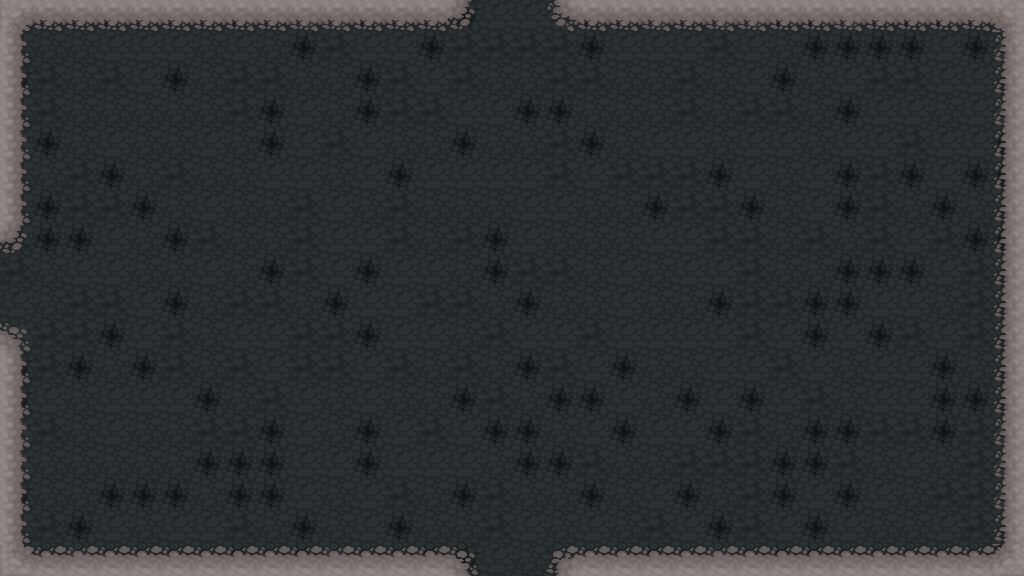
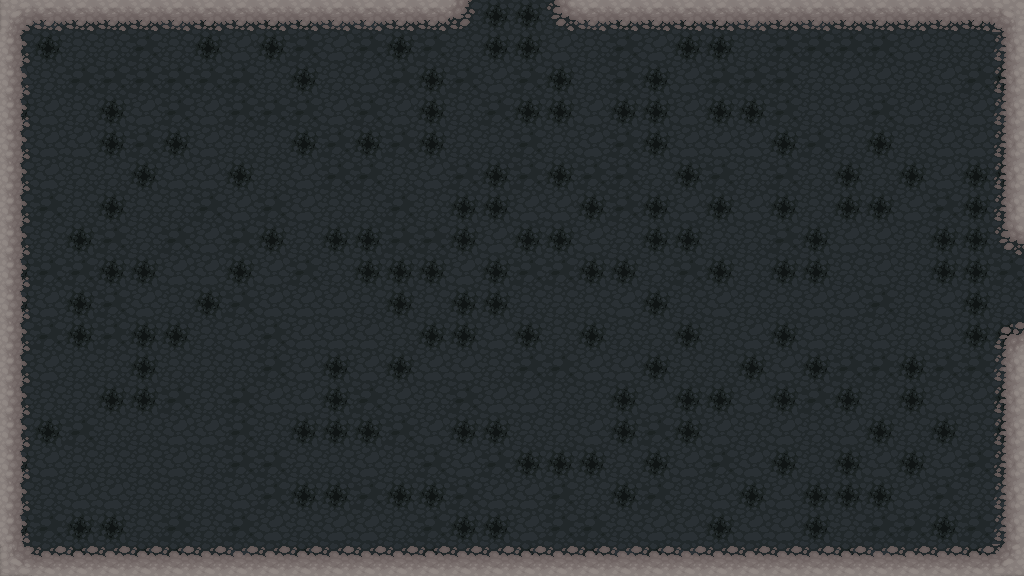
Dungeon map base Done

diff --git a/mapGen.py b/mapGen.py
@@ -188,6 +188,13 @@ class Map():
                         setColor(getPixel(self.map, startx + x + structx * bits, starty + y + structy * bits), getColor(getPixel(struct, x + structx * bits, y + structy * bits)))
 
     def updateBackground(self, tiles, back):
+        tempPaths = paths
+        printNow(self.baseTile.desc)
+        if self.baseTile.desc == "lava":
+            printNow("Lava Detected")
+            tempPaths.append("S")
+            tempPaths.append("l")
+        printNow(tempPaths)
         for spot in range(0, len(tiles)):
             around = 0
             #dirs = [[1,0,right],[-1,0,left],[0,-1,up],[0,1,down]]
@@ -204,7 +211,7 @@ class Map():
                 #if tileCoordToSpot(new) >= len(tiles): continue
                 if tiles[tileCoordToSpot(new)] == tiles[spot]:
                     around = around | d[2] #bitwise or direction with around
-                elif tiles[spot] in paths and tiles[tileCoordToSpot(new)] in paths:
+                elif tiles[spot] in tempPaths and tiles[tileCoordToSpot(new)] in tempPaths:
                     around = around | d[2] #bitwise or direction with around
             if   tiles[spot] == self.baseTile.char: continue
             elif tiles[spot] == "g": self.placeTex(grass, spot, around)
@@ -218,6 +225,7 @@ class Map():
             elif tiles[spot] == "L": self.placeTex(lava, spot, around)
             elif tiles[spot] == "H": self.placeTex(hole, spot, around)
             elif tiles[spot] == "h": self.placeStruct(house, spot)
+            elif tiles[spot] == "c": self.placeStruct(chest, spot)
             elif tiles[spot] == "t": self.placeStruct(tree1, spot)
             repaint(self.map)
             #not in files yet
@@ -297,6 +305,7 @@ fence = Tile(fenceArr, false, true, false, "fence", "f")
 #structures
 structPath = path + "Tiles/LPC/structures/"
 house = makePicture(structPath + "house.png")
+chest = makePicture(structPath + "chest.png")
 tree1 = makePicture(structPath + "tree1.png")
 
 #initailize background image
@@ -309,7 +318,7 @@ texHeight = getHeight(textureMap)
 #initailize textures
 #  Tile(imgArr, isTraversable, isPassable, isTough, desc)
 
-paths = ["d", "s", "h", ".", "o"]
+paths = ["d", "s", "h", ".", "o", "c"]
 #create emply grass field will clean up later
 town  = "fffffffffffffddddfffffffffffffff"
 town += "fh......ggt,,ddddgh......ggggggf"
@@ -394,10 +403,10 @@ nefield += "fffffffffffffddddfffffffffffffff"
 entrance  = "SSSSSSSSSSSSSSSllSSSSSSSSSSSSSSS"
 entrance += "SllllllllllllllllllllllllllllllS"
 entrance += "SllllllllllllllllllllllllllllllS"
-entrance += "SllllllllllllllllllllllllllllllS"
-entrance += "SllllllllLLLLllllllllllllllllllS"
-entrance += "SllllllllLLLLLLLLllllllllllllllS"
-entrance += "SllllllllLLLLLLLLLLLlllllllllllS"
+entrance += "SlllllllllllllLLLllllllllllllllS"
+entrance += "SllllllllLLLLlLLLllllLLLlllllllS"
+entrance += "SllllllllLLLLLLLLLllLLLLlllllllS"
+entrance += "SllllllllLLLLLLLLLLLLLLLlllllllS"
 entrance += "SllllllllLLLLLLLLLLLLLlllllllllS"
 entrance += "lllllllLLLLLLLllllLLLLllllllllll"
 entrance += "lllllllLLLLLLLllllLLLLllllllllll"
@@ -434,100 +443,100 @@ westRoom += "SSSSSSSSSSSSSSSSSSSSSSSSSSSSSSSS"
 eastRoom  = "SSSSSSSSSSSSSSSllSSSSSSSSSSSSSSS"
 eastRoom += "SllllllllllllllllllllllllllllllS"
 eastRoom += "SllllllllllllllllllllllllllllllS"
-eastRoom += "SllllllllllllllllllllllllllllllS"
-eastRoom += "SllllllllllllllllllllllllllllllS"
-eastRoom += "SllllllllllllllllllllllllllllllS"
-eastRoom += "SllllllllllllllllllllllllllllllS"
+eastRoom += "SlllLLLLLLLlllllllllllLLLLLLlllS"
+eastRoom += "SllLLLLLLLLLlllllllllLLLLLLLLllS"
+eastRoom += "SllLLLLLLLLLlllllllllLLLLLLLLllS"
+eastRoom += "SlllLLLLLLLlllllllllllLLLLLLlllS"
 eastRoom += "SllllllllllllllllllllllllllllllS"
 eastRoom += "lllllllllllllllllllllllllllllllS"
-eastRoom += "lllllllllllllllllllllllllllllllS"
-eastRoom += "SllllllllllllllllllllllllllllllS"
-eastRoom += "SllllllllllllllllllllllllllllllS"
-eastRoom += "SllllllllllllllllllllllllllllllS"
-eastRoom += "SllllllllllllllllllllllllllllllS"
-eastRoom += "SllllllllllllllllllllllllllllllS"
+eastRoom += "lllllllllllLLLLllllllllllllLLllS"
+eastRoom += "SlllLLllllLLLLLlllllllllLLLLLllS"
+eastRoom += "SlllLLLlllLLLLLllllllLLLLLLLLllS"
+eastRoom += "SlllLLLLLLLLLLLllllllLLLLLLLLllS"
+eastRoom += "SlllLLLLLLLLLLLlllllLLLLLLLLlllS"
+eastRoom += "SlllLLLLLLLlllllllllLLLLLLLllllS"
 eastRoom += "SllllllllllllllllllllllllllllllS"
 eastRoom += "SllllllllllllllllllllllllllllllS"
 eastRoom += "SSSSSSSSSSSSSSSllSSSSSSSSSSSSSSS"
 #dungeonMap = Map(dungeon, lavaRock, "dungeonMap.png")
 
 keyRoom  = "SSSSSSSSSSSSSSSSSSSSSSSSSSSSSSSS"
-keyRoom += "SllllllllllllllllllllllllllllllS"
-keyRoom += "SllllllllllllllllllllllllllllllS"
-keyRoom += "SllllllllllllllllllllllllllllllS"
-keyRoom += "SllllllllllllllllllllllllllllllS"
-keyRoom += "SllllllllllllllllllllllllllllllS"
-keyRoom += "SllllllllllllllllllllllllllllllS"
-keyRoom += "SllllllllllllllllllllllllllllllS"
-keyRoom += "SllllllllllllllllllllllllllllllS"
-keyRoom += "SllllllllllllllllllllllllllllllS"
-keyRoom += "SllllllllllllllllllllllllllllllS"
-keyRoom += "SllllllllllllllllllllllllllllllS"
-keyRoom += "SllllllllllllllllllllllllllllllS"
-keyRoom += "SllllllllllllllllllllllllllllllS"
-keyRoom += "SllllllllllllllllllllllllllllllS"
-keyRoom += "SllllllllllllllllllllllllllllllS"
-keyRoom += "SllllllllllllllllllllllllllllllS"
+keyRoom += "SLLLLLLLLLLLLLLLLLLLLLLLLLLLLLLS"
+keyRoom += "SLLLLLLLLLLLLLLLLLLLLLLLLLLLLLLS"
+keyRoom += "SLLLLLLLLLLLLLLLLLLLLLLLLLLLLLLS"
+keyRoom += "SLLLLLLLLLLLLLLLLLLLLLLLLLLLLLLS"
+keyRoom += "SLLLLLLLLLLLLLLLLLLLLLLLLLLLLLLS"
+keyRoom += "SLLLLLLLLLLLllllllllLLLLLLLLLLLS"
+keyRoom += "SLLLLLLLLLLLlllc.lllLLLLLLLLLLLS"
+keyRoom += "SLLLLLLLLLLLllllllllLLLLLLLLLLLS"
+keyRoom += "SLLLLLLLLLLLllllllllLLLLLLLLLLLS"
+keyRoom += "SLLLLLLLLLLLllllllllLLLLLLLLLLLS"
+keyRoom += "SLLLLLLLLLLLLLllllLLLLLLLLLLLLLS"
+keyRoom += "SLLLLLLLLLLLLLllllLLLLLLLLLLLLLS"
+keyRoom += "SLLLLLLLLLLLLLllllLLLLLLLLLLLLLS"
+keyRoom += "SLLLLLLLLLLLLLllllLLLLLLLLLLLLLS"
+keyRoom += "SLLLLLLLLLLLLLllllLLLLLLLLLLLLLS"
+keyRoom += "SLLLLLLLLLLLLLllllLLLLLLLLLLLLLS"
 keyRoom += "SSSSSSSSSSSSSSSllSSSSSSSSSSSSSSS"
 #dungeonMap = Map(dungeon, lavaRock, "dungeonMap.png")
 
 miniBoss  = "SSSSSSSSSSSSSSSSSSSSSSSSSSSSSSSS"
-miniBoss += "SllllllllllllllllllllllllllllllS"
-miniBoss += "SllllllllllllllllllllllllllllllS"
-miniBoss += "SllllllllllllllllllllllllllllllS"
-miniBoss += "SllllllllllllllllllllllllllllllS"
-miniBoss += "SllllllllllllllllllllllllllllllS"
-miniBoss += "SllllllllllllllllllllllllllllllS"
-miniBoss += "SllllllllllllllllllllllllllllllS"
-miniBoss += "SllllllllllllllllllllllllllllllS"
-miniBoss += "SllllllllllllllllllllllllllllllS"
-miniBoss += "SllllllllllllllllllllllllllllllS"
-miniBoss += "SllllllllllllllllllllllllllllllS"
-miniBoss += "SllllllllllllllllllllllllllllllS"
-miniBoss += "SllllllllllllllllllllllllllllllS"
-miniBoss += "SllllllllllllllllllllllllllllllS"
-miniBoss += "SllllllllllllllllllllllllllllllS"
-miniBoss += "SllllllllllllllllllllllllllllllS"
+miniBoss += "SLLLLLLLLLLLLLLLLLLLLLLLLLLLLLLS"
+miniBoss += "SLLLLLLLLLLLLLLLLLLLLLLLLLLLLLLS"
+miniBoss += "SLLLLLLLLLLLLLLLLLLLLLLLLLLLLLLS"
+miniBoss += "SLLLLLLLllllllllllllllllLLLLLLLS"
+miniBoss += "SLLLLLLllllllllllllllllllLLLLLLS"
+miniBoss += "SLLLLLLllllllllllllllllllLLLLLLS"
+miniBoss += "SLLLLLLllllllllllllllllllLLLLLLS"
+miniBoss += "SLLLLLLllllllllllllllllllLLLLLLS"
+miniBoss += "SLLLLLLllllllllllllllllllLLLLLLS"
+miniBoss += "SLLLLLLllllllllllllllllllLLLLLLS"
+miniBoss += "SLLLLLLllllllllllllllllllLLLLLLS"
+miniBoss += "SLLLLLLllllllllllllllllllLLLLLLS"
+miniBoss += "SLLLLLLLllllllllllllllllLLLLLLLS"
+miniBoss += "SLLLLLLLLLLLLLllllLLLLLLLLLLLLLS"
+miniBoss += "SLLLLLLLLLLLLLllllLLLLLLLLLLLLLS"
+miniBoss += "SLLLLLLLLLLLLLllllLLLLLLLLLLLLLS"
 miniBoss += "SSSSSSSSSSSSSSSllSSSSSSSSSSSSSSS"
 #dungeonMap = Map(dungeon, lavaRock, "dungeonMap.png")
 
 bossKey  = "SSSSSSSSSSSSSSSllSSSSSSSSSSSSSSS"
-bossKey += "SllllllllllllllllllllllllllllllS"
-bossKey += "SllllllllllllllllllllllllllllllS"
-bossKey += "SllllllllllllllllllllllllllllllS"
-bossKey += "SllllllllllllllllllllllllllllllS"
-bossKey += "SllllllllllllllllllllllllllllllS"
-bossKey += "SllllllllllllllllllllllllllllllS"
-bossKey += "SllllllllllllllllllllllllllllllS"
-bossKey += "SllllllllllllllllllllllllllllllS"
-bossKey += "SllllllllllllllllllllllllllllllS"
-bossKey += "SllllllllllllllllllllllllllllllS"
-bossKey += "SllllllllllllllllllllllllllllllS"
-bossKey += "SllllllllllllllllllllllllllllllS"
-bossKey += "SllllllllllllllllllllllllllllllS"
-bossKey += "SllllllllllllllllllllllllllllllS"
-bossKey += "SllllllllllllllllllllllllllllllS"
-bossKey += "SllllllllllllllllllllllllllllllS"
+bossKey += "SLLLLLLLLLLLLLllllLLLLLLLLLLLLLS"
+bossKey += "SLLLLLLLLLLLllllllllLLLLLLLLLLLS"
+bossKey += "SLLLLLLLLLLllllllllllLLLLLLLLLLS"
+bossKey += "SLLLLLLLLLLllllllllllLLLLLLLLLLS"
+bossKey += "SLLLLLLLLLLllllllllllLLLLLLLLLLS"
+bossKey += "SLLLLLLLlllllllllllllllllLLLLLLS"
+bossKey += "SLLLLLLlllllllllllllllllllLLLLLS"
+bossKey += "SLLLLLlllllllllllllllllllllLLLLS"
+bossKey += "SLLLLLlllllllllllllllllllllLLLLS"
+bossKey += "SLLLLLlllllllllllllllllllllLLLLS"
+bossKey += "SLLLLllllllllllllllllllllllLLLLS"
+bossKey += "SLLLLllllllllllc.llllllllllLLLLS"
+bossKey += "SLLLLLllllllllllllllllllllLLLLLS"
+bossKey += "SLLLLLLllllllllllllllllllLLLLLLS"
+bossKey += "SLLLLLLLLLLLLLLLLLLLLLLLLLLLLLLS"
+bossKey += "SLLLLLLLLLLLLLLLLLLLLLLLLLLLLLLS"
 bossKey += "SSSSSSSSSSSSSSSSSSSSSSSSSSSSSSSS"
 #dungeonMap = Map(dungeon, lavaRock, "dungeonMap.png")
 
 bossRoom  = "SSSSSSSSSSSSSSSSSSSSSSSSSSSSSSSS"
 bossRoom += "SLLLLLLLLLLLLLLLLLLLLLLLLLLLLLLS"
 bossRoom += "SLLLLLLLLLLLLLLLLLLLLLLLLLLLLLLS"
-bossRoom += "SLLLllllLLLLLllllllLLLLLllllLLLS"
-bossRoom += "SllllllllllllllllllllllllllllllS"
-bossRoom += "SllllllllllllllllllllllllllllllS"
-bossRoom += "SllllllllllllllllllllllllllllllS"
-bossRoom += "SllllllllllllllllllllllllllllllS"
-bossRoom += "SllllllllllllllllllllllllllllllS"
-bossRoom += "SllllllllllllllllllllllllllllllS"
-bossRoom += "SllllllllllllllllllllllllllllllS"
-bossRoom += "SllllllllllllllllllllllllllllllS"
-bossRoom += "SllllllllllllllllllllllllllllllS"
-bossRoom += "SllllllllllllllllllllllllllllllS"
-bossRoom += "SllllllllllllllllllllllllllllllS"
-bossRoom += "SllllllllllllllllllllllllllllllS"
-bossRoom += "SllllllllllllllllllllllllllllllS"
+bossRoom += "SLLLLLLLLLLLLLLLLLLLLLLLLLLLLLLS"
+bossRoom += "SLLLLLLLLLLLLLLLLLLLLLLLLLLLLLLS"
+bossRoom += "SLLLLLLlllLLLllllllLLLlllLLLLLLS"
+bossRoom += "SLLLLllllllllllllllllllllllLLLLS"
+bossRoom += "SLLLllllllllllllllllllllllllLLLS"
+bossRoom += "SLLLllllllllllllllllllllllllLLLS"
+bossRoom += "SLLLllllllllllllllllllllllllLLLS"
+bossRoom += "SLLLllllllllllllllllllllllllLLLS"
+bossRoom += "SLLLLllllllllllllllllllllllLLLLS"
+bossRoom += "SLLLLLllllllllllllllllllllLLLLLS"
+bossRoom += "SLLLLLLllllllllllllllllllLLLLLLS"
+bossRoom += "SLLLLLLLLLLLLLllllLLLLLLLLLLLLLS"
+bossRoom += "SLLLLLLLLLLLLLllllLLLLLLLLLLLLLS"
+bossRoom += "SLLLLLLLLLLLLLllllLLLLLLLLLLLLLS"
 bossRoom += "SSSSSSSSSSSSSSSllSSSSSSSSSSSSSSS"
 #dungeonMap = Map(dungeon, lavaRock, "dungeonMap.png")
 def makeDungeon():
@@ -542,7 +551,7 @@ def makeDungeon():
     entrance = Map(entrance,lavaRock, dungeonPath + "entrance.png")
     eastRoom = Map(eastRoom,lavaRock, dungeonPath + "eastRoom.png")
     westRoom = Map(westRoom,lavaRock, dungeonPath + "westRoom.png")
-    keyRoom = Map(keyRoom,lavaRock, dungeonPath + "keyRoom.png")
-    miniBoss = Map(miniBoss,lavaRock, dungeonPath + "miniBoss.png")
-    bossKey = Map(bossKey,lavaRock, dungeonPath + "bossKey.png")
-    bossRoom = Map(bossRoom,lavaRock, dungeonPath + "bossRoom.png")
+    keyRoom = Map(keyRoom,lava, dungeonPath + "keyRoom.png")
+    miniBoss = Map(miniBoss,lava, dungeonPath + "miniBoss.png")
+    bossKey = Map(bossKey,lava, dungeonPath + "bossKey.png")
+    bossRoom = Map(bossRoom,lava, dungeonPath + "bossRoom.png")
